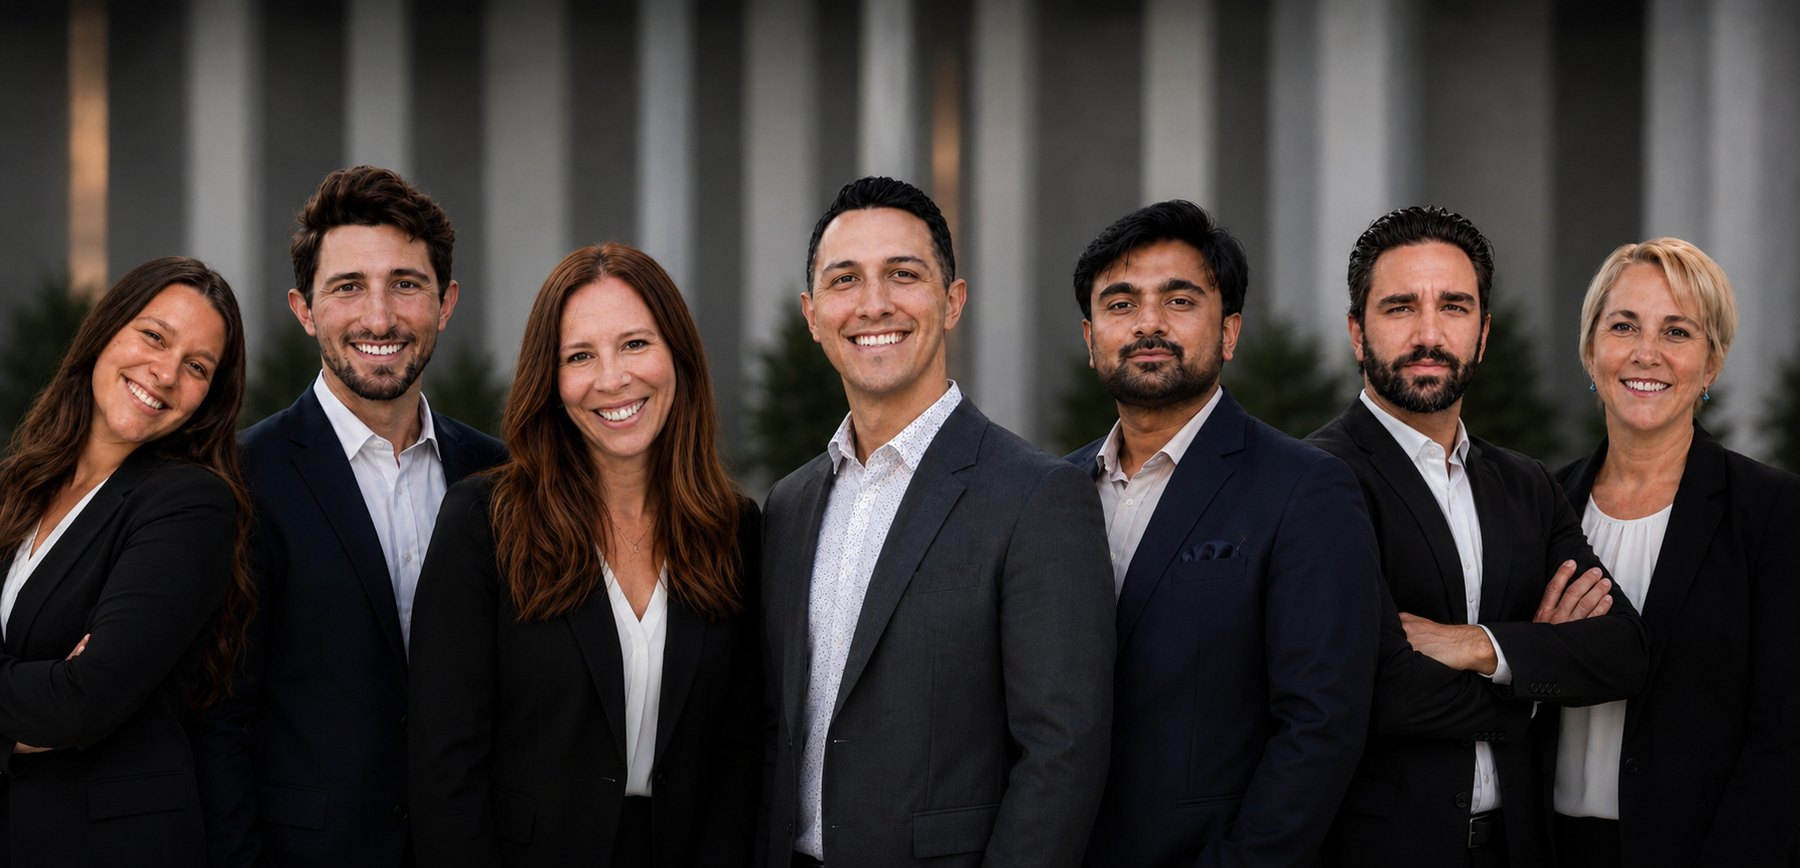
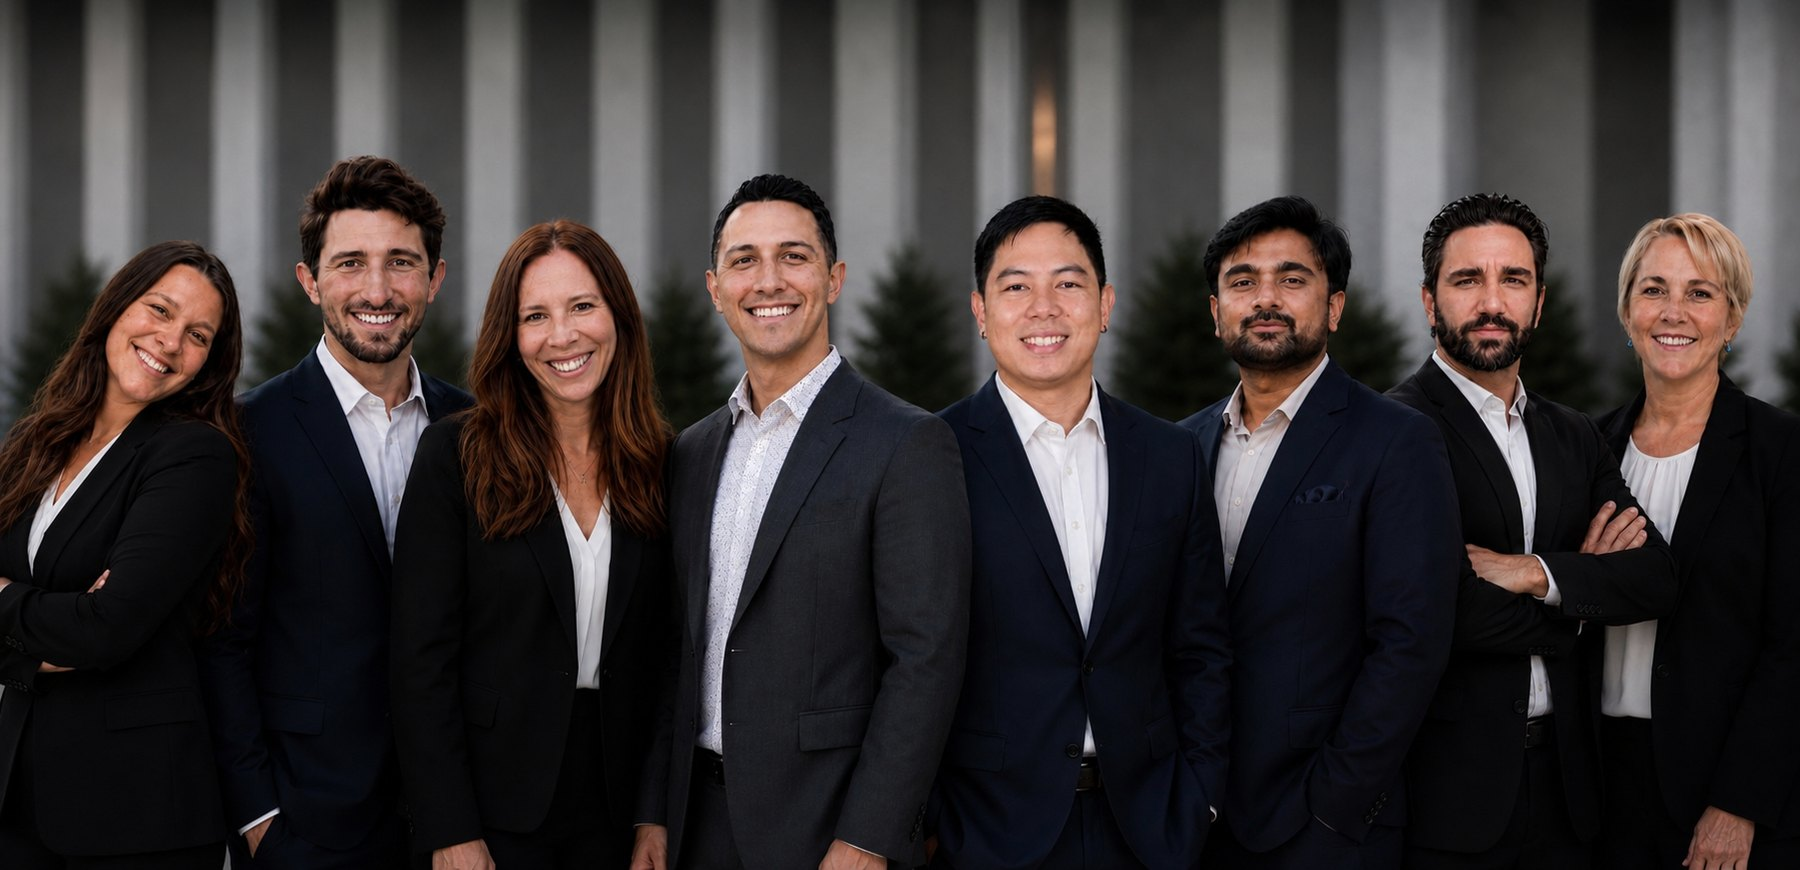
Homepage: updated team photo + Austin/global positioning
Claude-Session: https://claude.ai/code/session_01EEv3DPQv1nS6GWTMHLsj8E

diff --git a/index.html b/index.html
@@ -508,7 +508,7 @@ footer ul a:hover{color:var(--emerald)}
       </div>
       <div class="teamcol">
       <div class="teamimg rv"><img src="/assets/fable/team.jpg" alt="The Turnkey CFO team" loading="lazy"></div>
-      <div class="teamcap rv">The Turnkey team</div>
+      <div class="teamcap rv">The Turnkey team &middot; based in Austin &middot; team members across the globe</div>
       <div class="founder rv">
         <img src="/assets/ricky-headshot.webp" alt="Ricky West, founder of Turnkey CFO" width="76" height="76" loading="lazy">
         <div>
@@ -913,7 +913,7 @@ footer ul a:hover{color:var(--emerald)}
   <div class="fgrid">
     <div class="fbrand">
       <img src="/assets/tk-logo.webp" alt="Turnkey CFO">
-      <p>Modern bookkeeping for small businesses, churches, and nonprofits. Financial clarity, confident growth. Based in Austin, Texas. Serving nationwide.</p>
+      <p>Modern bookkeeping for small businesses, churches, and nonprofits. Financial clarity, confident growth. Based in Austin, Texas, with team members across the globe. Serving internationally.</p>
     </div>
     <div>
       <h4>Services</h4>